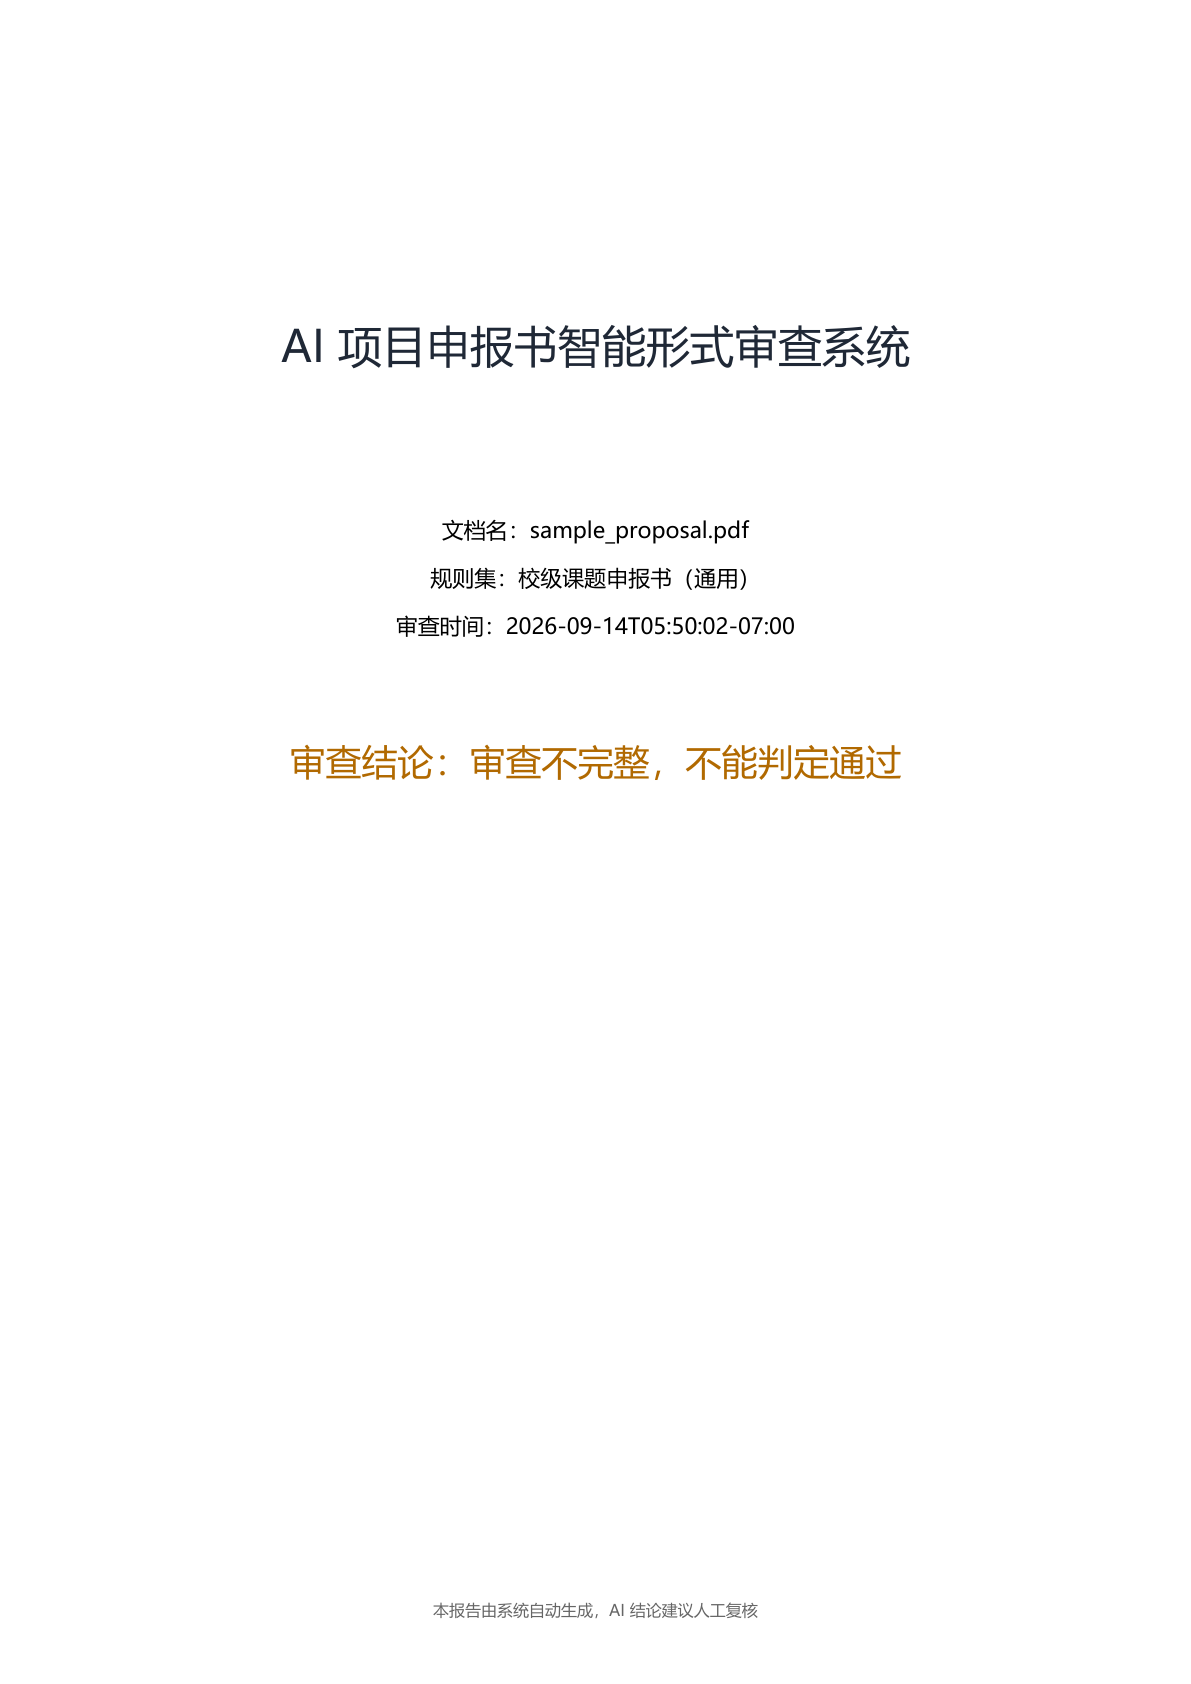
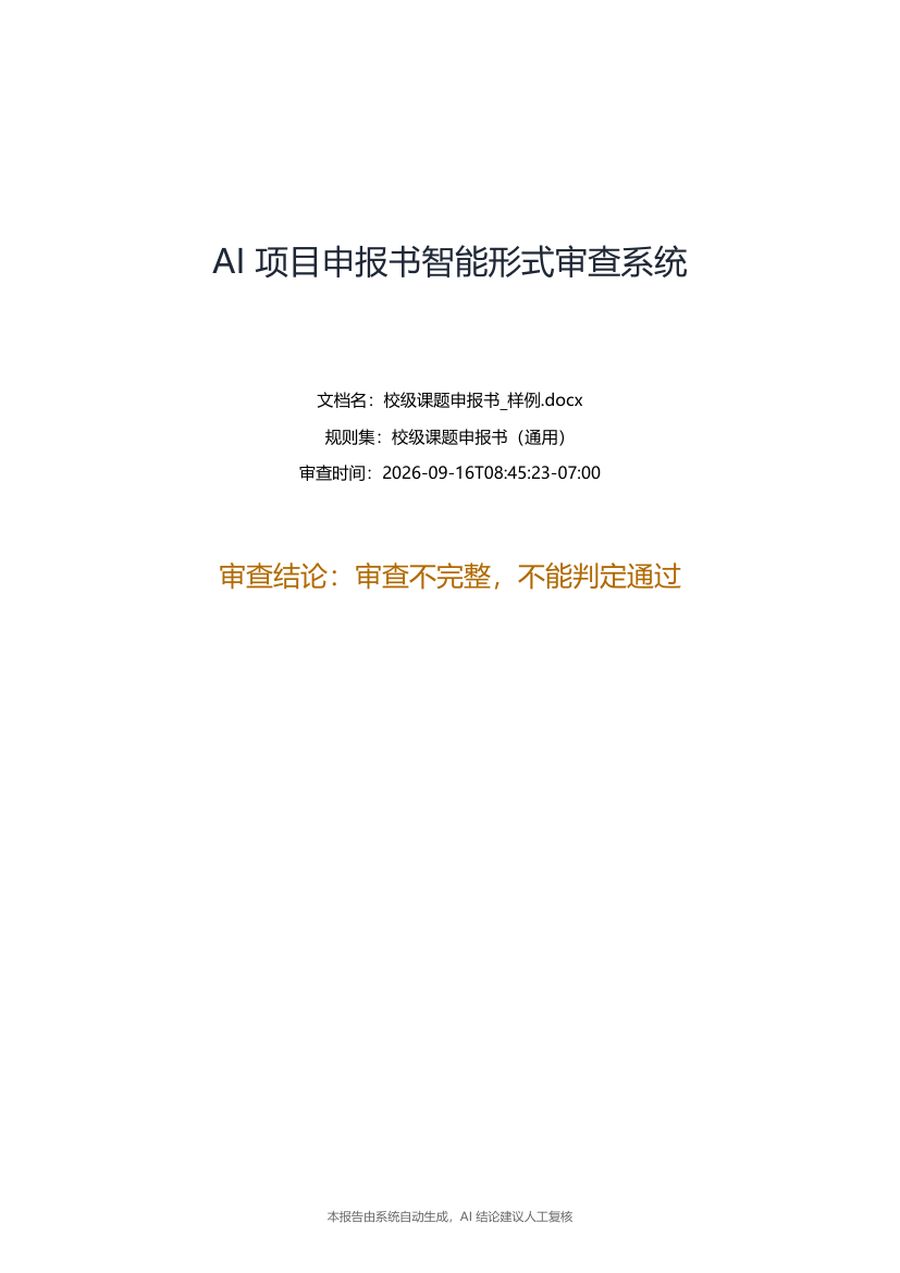
README：补充界面预览与产出样例截图
- 新增 docs/screenshots/ui-01..08（登录/仪表盘/发起审查/结果页/原文定位/规则集/用户/批量），README 用前 6 张做界面预览
- 产出样例补上新生成的批注 PDF 高亮页，并换成含预算勾稽错误的样例（结论 incomplete、1 error + 11 提示）
- 截图由 Playwright 驱动本机 Edge 实拍，非拼凑

diff --git a/README.md b/README.md
@@ -30,15 +30,31 @@
 - **工程**：后端 482 项 pytest（样本池未生成时 478 passed / 4 skipped）、前端 27 项 vitest + 8 项 node 测试，每次推送都在 CI 上跑
 - **部署**：单实例单进程，Windows 一键脚本或 Docker Compose 两种方式，不需要 Redis / Celery / PostgreSQL
 
+## 界面预览
+
+| 登录（部署级访问凭据 + 账号） | 仪表盘：任务概览与快捷入口 |
+|---|---|
+| ![登录](docs/screenshots/ui-01-login.png) | ![仪表盘](docs/screenshots/ui-02-dashboard.png) |
+
+| 发起审查：选规则集 + 上传材料 | 结果页：结论、命中统计与问题列表 |
+|---|---|
+| ![发起审查](docs/screenshots/ui-03-new-review.png) | ![结果页](docs/screenshots/ui-04-result-conclusion.png) |
+
+| 结果页：点开命中看原文定位 | 规则集管理：20 类检查器逐个开关 |
+|---|---|
+| ![原文定位](docs/screenshots/ui-05-result-evidence.png) | ![规则集管理](docs/screenshots/ui-06-rulesets.png) |
+
+用户与角色管理（RBAC）、批量审查与批量汇总导出另有截图：`docs/screenshots/ui-07-users.png`、`docs/screenshots/ui-08-batch.png`。
+
 ## 产出样例
 
-审查报告由程序自己生成（reportlab + 嵌入中文 TrueType 字体），每条命中都带页码与原文片段：
+审查报告与批注 PDF 都由程序自己生成（reportlab 嵌入中文 TrueType 字体；批注用 PDF 原生高亮标注，在 PDF 阅读器里悬停即可看到批注内容）：
 
-| 第 1 页：结论与命中的规则 | 第 2 页：逐条证据与原文定位 |
-|---|---|
-| ![审查报告第 1 页](docs/screenshots/audit-report-page-1.png) | ![审查报告第 2 页](docs/screenshots/audit-report-page-2.png) |
+| 审查报告第 1 页：结论 | 第 2 页：逐条证据与原文定位 | 批注 PDF：预算勾稽错误高亮 |
+|---|---|---|
+| ![审查报告第 1 页](docs/screenshots/audit-report-page-1.png) | ![审查报告第 2 页](docs/screenshots/audit-report-page-2.png) | ![批注 PDF](docs/screenshots/annotated-budget-highlight.png) |
 
-批注 PDF、批量汇总 XLSX、合成样本池与三口径评测报告等其余产出物，见 [`eval/README.md`](eval/README.md)。
+批量汇总 XLSX、合成样本池与三口径评测报告等其余产出物，见 [`eval/README.md`](eval/README.md)。
 
 ---
 
